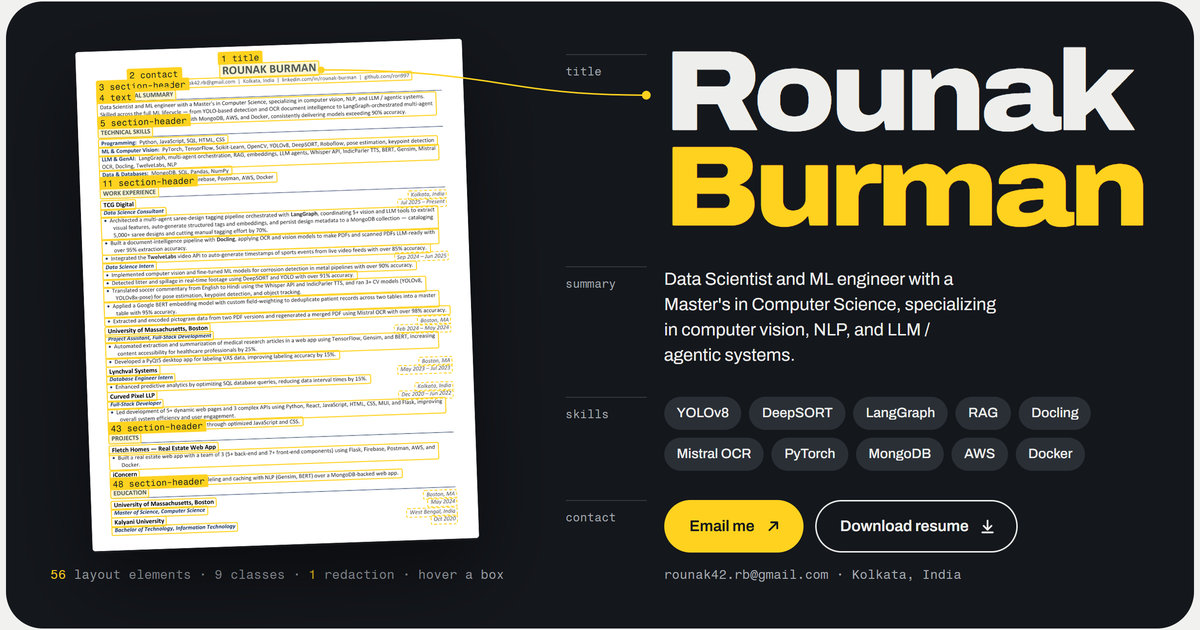
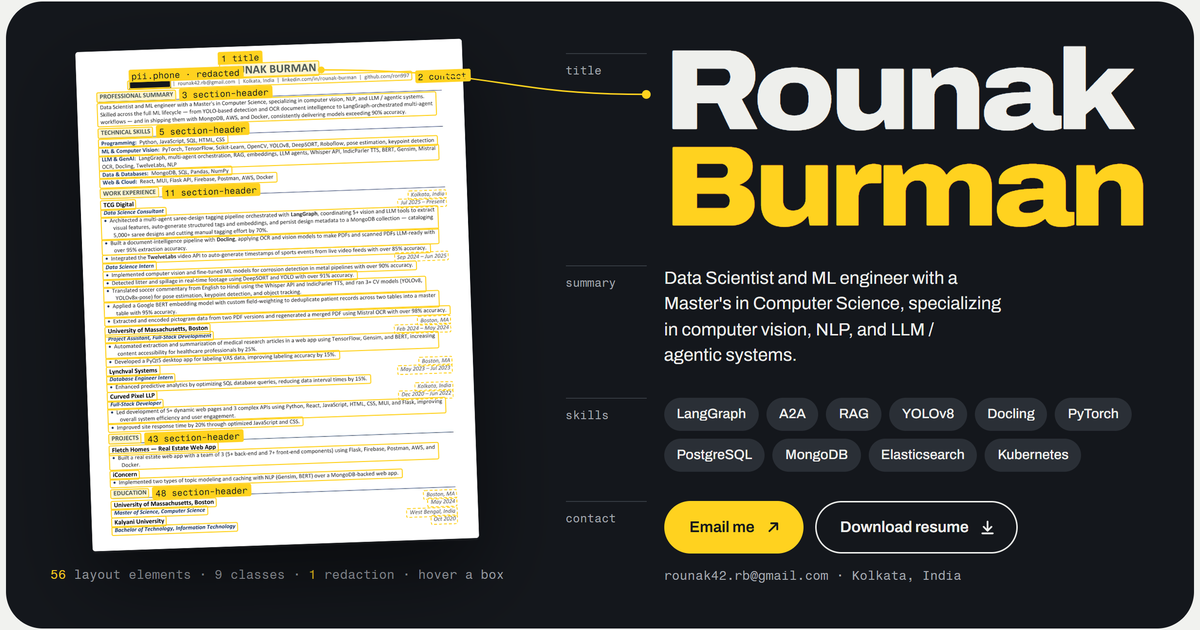
Correct shipping, databases and agent skills; describe the orchestrator
Per Rounak: shipping is Docker, Kubernetes and AWS (MongoDB is a
database, not shipping); databases are PostgreSQL, MongoDB and
Elasticsearch; A2A is a core skill alongside LangGraph. The TCG
orchestrator bullet now also lists design generation, sales-data
queries, visualizations, trend research with PPT/PDF reports, and
catalogue lookup linked to sales data by design ID. Hero chips stay at
ten so the first screen fits short laptop viewports. PRODUCT.md records
these as confirmed facts not yet in the resume PDF.

diff --git a/src/content/resume.ts b/src/content/resume.ts
@@ -30,12 +30,13 @@ export const summaryShort =
   "Data Scientist and ML engineer with a Master's in Computer Science, specializing in computer vision, NLP, and LLM / agentic systems."
 
 export const summary =
-  "Data Scientist and ML engineer with a Master's in Computer Science, specializing in computer vision, NLP, and LLM / agentic systems. Skilled across the full ML lifecycle, from YOLO-based detection and OCR document intelligence to LangGraph-orchestrated multi-agent workflows, and in shipping them with MongoDB, AWS, and Docker, consistently delivering models exceeding 90% accuracy."
+  "Data Scientist and ML engineer with a Master's in Computer Science, specializing in computer vision, NLP, and LLM / agentic systems. Skilled across the full ML lifecycle, from YOLO-based detection and OCR document intelligence to multi-agent workflows built with LangGraph and A2A, and in shipping them with Docker, Kubernetes, and AWS, consistently delivering models exceeding 90% accuracy."
 
 /** Phrases in the summary that get the highlighter as they are read. */
 export const summaryMarks = ['computer vision, NLP, and LLM / agentic systems.', 'shipping them', '90% accuracy.']
 
-export const topSkills = ['YOLOv8', 'DeepSORT', 'LangGraph', 'RAG', 'Docling', 'Mistral OCR', 'PyTorch', 'MongoDB', 'AWS', 'Docker']
+/** The hero's skill chips: one or two per area, kept to two rows. The full list is in `skills`. */
+export const topSkills = ['LangGraph', 'A2A', 'RAG', 'YOLOv8', 'Docling', 'PyTorch', 'PostgreSQL', 'MongoDB', 'Elasticsearch', 'Kubernetes']
 
 export const skills: { key: string; values: string[] }[] = [
   { key: 'Programming', values: ['Python', 'JavaScript', 'SQL', 'HTML', 'CSS'] },
@@ -45,10 +46,10 @@ export const skills: { key: string; values: string[] }[] = [
   },
   {
     key: 'LLM & GenAI',
-    values: ['LangGraph', 'multi-agent orchestration', 'RAG', 'embeddings', 'LLM agents', 'Whisper API', 'IndicParler TTS', 'BERT', 'Gensim', 'Mistral OCR', 'Docling', 'TwelveLabs', 'NLP'],
+    values: ['LangGraph', 'A2A', 'multi-agent orchestration', 'RAG', 'embeddings', 'LLM agents', 'Whisper API', 'IndicParler TTS', 'BERT', 'Gensim', 'Mistral OCR', 'Docling', 'TwelveLabs', 'NLP'],
   },
-  { key: 'Data & Databases', values: ['MongoDB', 'SQL', 'Pandas', 'NumPy'] },
-  { key: 'Web & Cloud', values: ['React', 'MUI', 'Flask API', 'Firebase', 'Postman', 'AWS', 'Docker'] },
+  { key: 'Data & Databases', values: ['PostgreSQL', 'MongoDB', 'Elasticsearch', 'SQL', 'Pandas', 'NumPy'] },
+  { key: 'Web & Cloud', values: ['React', 'MUI', 'Flask API', 'Firebase', 'Postman', 'AWS', 'Docker', 'Kubernetes'] },
 ]
 
 export const experience: Org[] = [
@@ -65,6 +66,9 @@ export const experience: Org[] = [
             text: 'Architected a multi-agent saree-design tagging pipeline orchestrated with LangGraph, coordinating 5+ vision and LLM tools to extract visual features, auto-generate structured tags and embeddings, and persist design metadata to a MongoDB collection, cataloging 5,000+ saree designs and cutting manual tagging effort by 70%.',
             metrics: ['5,000+ saree designs', 'cutting manual tagging effort by 70%'],
             tools: ['LangGraph'],
+          },
+          {
+            text: 'Built the orchestrator to also generate new saree designs, answer sales-data queries, generate visualizations, run trend research with illustrated PPT and PDF reports as output, and pick out and display designs from the internal catalogue, linked to sales data through the design ID.',
           },
           {
             text: 'Built a document-intelligence pipeline with Docling, applying OCR and vision models to make PDFs and scanned PDFs LLM-ready with over 95% extraction accuracy.',

diff --git a/index.html b/index.html
@@ -4,7 +4,7 @@
     <meta charset="UTF-8" />
     <meta name="viewport" content="width=device-width, initial-scale=1.0" />
     <title>Rounak Burman · Data Scientist and ML Engineer</title>
-    <meta name="description" content="Rounak Burman is a Data Scientist and ML engineer in Kolkata, India, building computer-vision, OCR and document-intelligence, and LangGraph multi-agent LLM systems, shipped with MongoDB, AWS and Docker." />
+    <meta name="description" content="Rounak Burman is a Data Scientist and ML engineer in Kolkata, India, building computer-vision, OCR and document-intelligence, and LangGraph and A2A multi-agent systems, shipped with Docker, Kubernetes and AWS." />
     <meta name="author" content="Rounak Burman" />
     <link rel="canonical" href="https://ron997.github.io/" />
     <meta name="theme-color" content="#F1F2EF" />
@@ -39,7 +39,7 @@
           { "@type": "CollegeOrUniversity", "name": "Kalyani University" }
         ],
         "address": { "@type": "PostalAddress", "addressLocality": "Kolkata", "addressCountry": "IN" },
-        "knowsAbout": ["Computer vision", "Document intelligence", "OCR", "LangGraph", "Multi-agent systems", "RAG", "NLP", "YOLOv8"],
+        "knowsAbout": ["Computer vision", "Document intelligence", "OCR", "LangGraph", "A2A", "Multi-agent systems", "RAG", "NLP", "YOLOv8", "PostgreSQL", "MongoDB", "Elasticsearch", "Kubernetes"],
         "sameAs": ["https://www.linkedin.com/in/rounak-burman", "https://github.com/ron997"]
       }
     </script>

diff --git a/src/components/sections/Experience.tsx b/src/components/sections/Experience.tsx
@@ -17,7 +17,7 @@ const TAGS: [string, RegExp][] = [
   ['video', /\b(video|footage|twelvelabs)/i],
   ['speech', /\b(whisper|tts|commentary)/i],
   ['nlp', /\b(bert|gensim|embedding|summarization|topic)/i],
-  ['data', /\b(sql|mongodb|records|database|deduplicate)/i],
+  ['data', /\b(sql|mongodb|records|database|deduplicate|sales)/i],
   ['web', /\b(web|react|flask|apis|javascript|pyqt5|desktop app)/i],
 ]
 const tagsFor = (role: Role) => TAGS.filter(([, re]) => role.bullets.some((b) => re.test(b.text))).map(([t]) => t)

diff --git a/PRODUCT.md b/PRODUCT.md
@@ -34,7 +34,7 @@ He turns unstructured visual material (live video, scanned PDFs, photographs, fa
 structured, queryable data using computer vision, OCR, and LLM agents, and he ships those systems end to end
 because he started as a full-stack developer (Curved Pixel, 2020–22) before his MS in Computer Science.
 Range across CV (YOLOv8, DeepSORT, pose), document intelligence (Docling, Mistral OCR), and agentic LLM
-orchestration (LangGraph) is the differentiator, backed by measured accuracy figures.
+orchestration (LangGraph, A2A) is the differentiator, backed by measured accuracy figures.
 
 ## Operating Context
 
@@ -67,6 +67,14 @@ orchestration (LangGraph) is the differentiator, backed by measured accuracy fig
   accuracy, >90% corrosion detection, >91% litter/spillage detection, 95% record dedup accuracy, >98% OCR
   accuracy, +25% content accessibility, +15% labelling accuracy, −15% data interval times, +20% site response.
 - `WhatsApp Image 2026-10-08 at 6.24.21 PM.jpeg`: graduation portrait, UMass Boston commencement.
+- **Confirmed by Rounak on 2026-10-08, not yet in the resume PDF** (the site states these; the PDF, the parsed
+  hero page and its layout data still show the older text until the PDF is updated and `npm run assets` is rerun):
+  - Shipping is Docker, Kubernetes and AWS. MongoDB is a database, not part of shipping.
+  - Databases: PostgreSQL, MongoDB and Elasticsearch.
+  - LangGraph and A2A are core skills.
+  - The TCG multi-agent orchestrator also generates new saree designs, answers sales-data queries, generates
+    visualizations, runs trend research with illustrated PPT and PDF reports as output, and picks out and
+    displays designs from the internal catalogue, linked to sales data through the design ID.
 - **Absent, never fabricate:** testimonials, client logos, public demos or repo links for the projects,
   screenshots of client work, employer endorsements, availability dates, rates.
 
